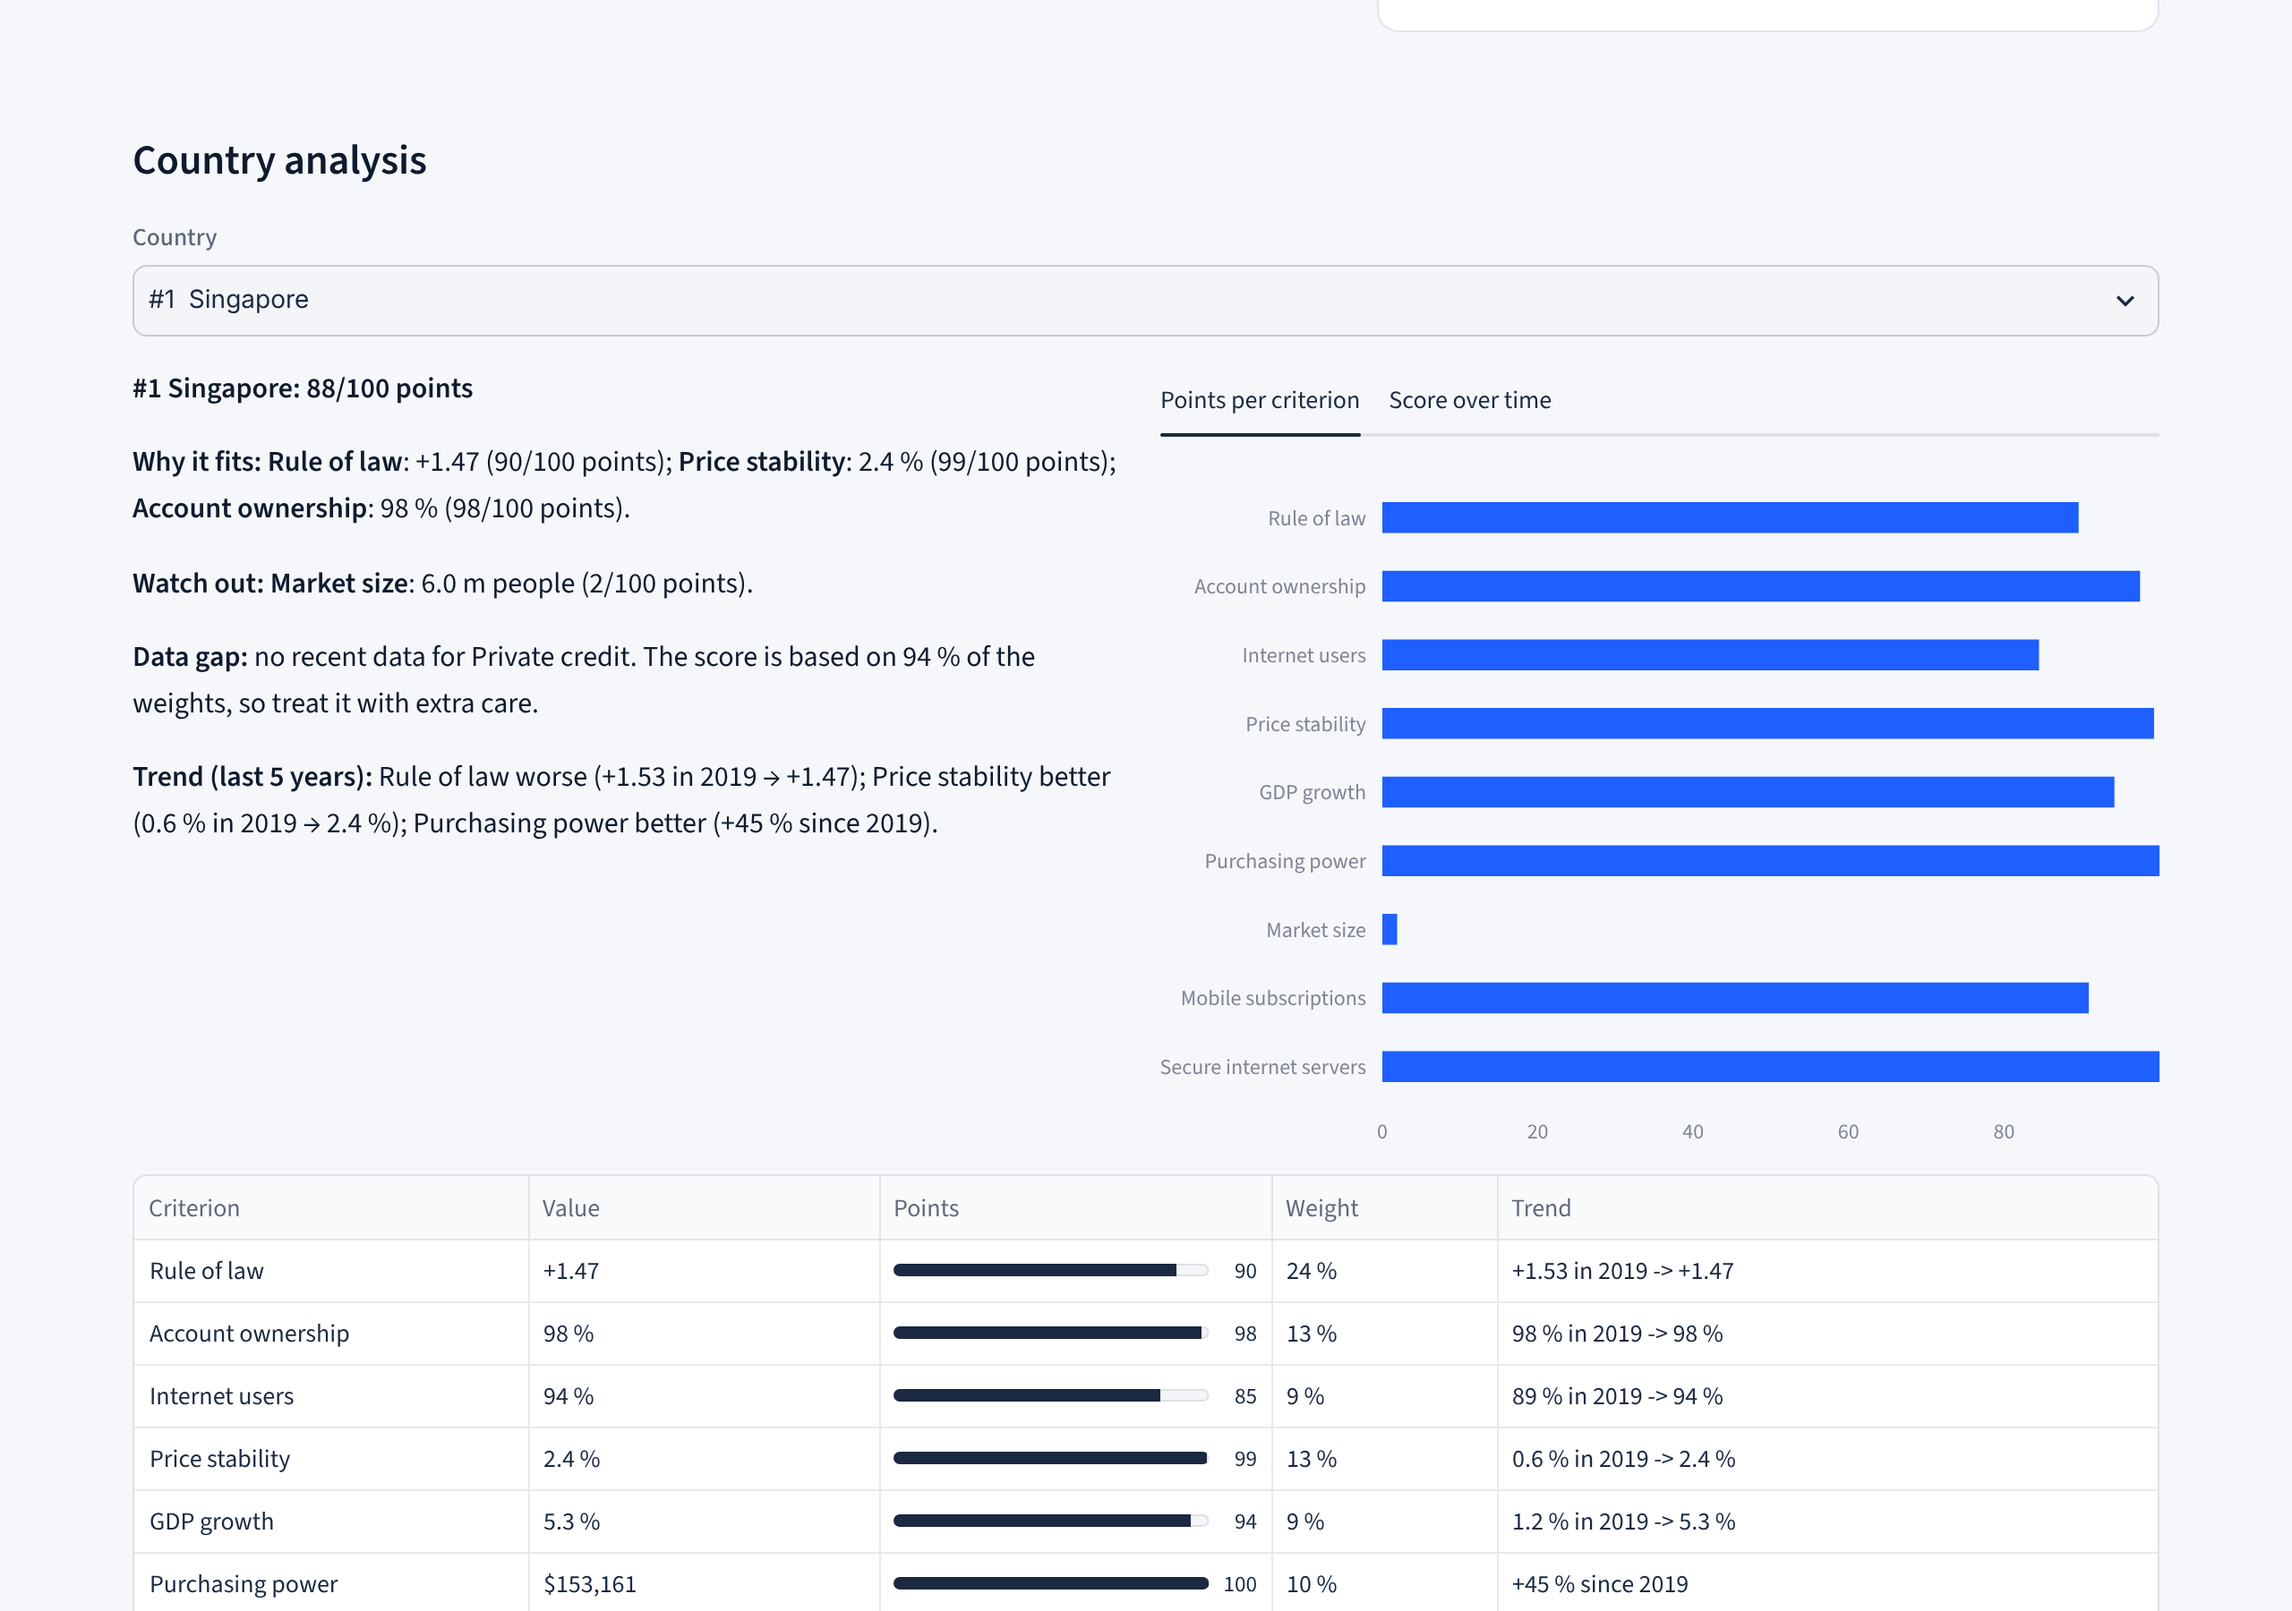
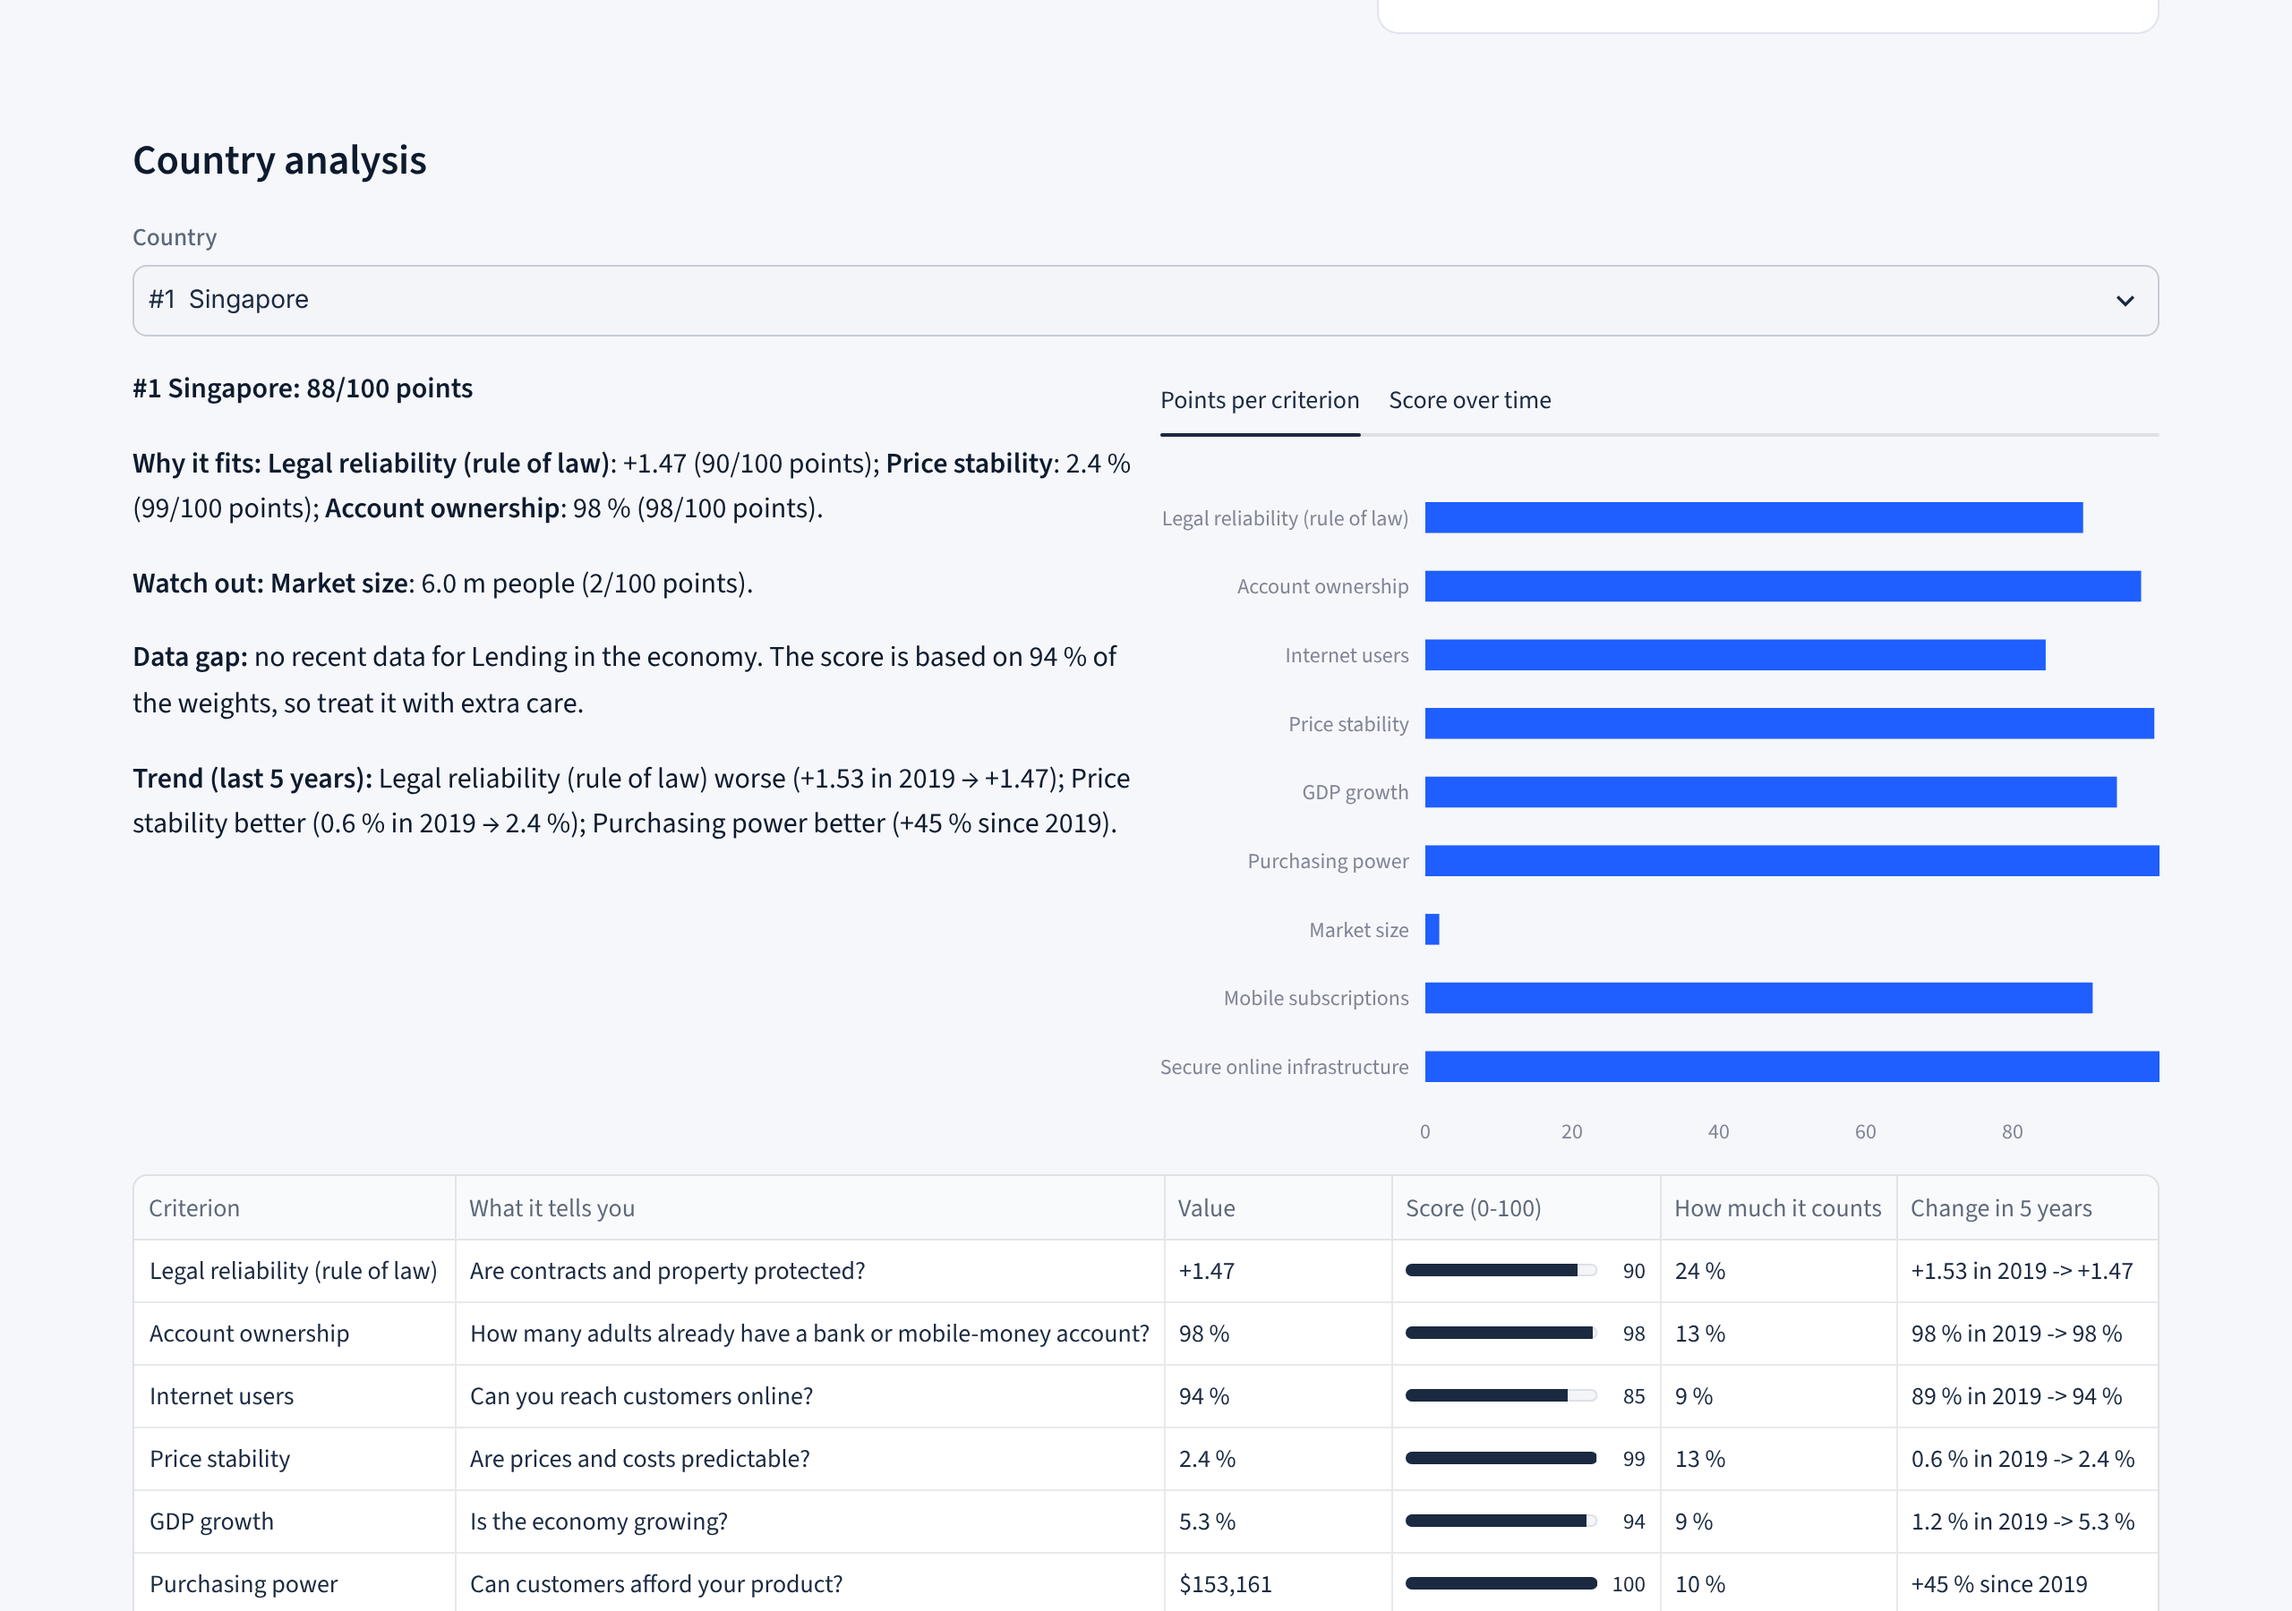
Guided question flow, plain language and more focuses
- Replace the form with seven one-question screens and big answer cards
- 21 focuses across seven industries (new: Education, lending, investing,
  developer tools, AI, EV, marketplace, food delivery and more)
- Plain-language labels, hints and a "what it tells you" column per criterion
- Advanced weight sliders moved to the bottom
- New README screenshots

Claude-Session: https://claude.ai/code/session_01PVR4SvZspivN8kpZSUfhf2

diff --git a/src/ui.py b/src/ui.py
@@ -37,6 +37,29 @@ div[data-testid="stHeading"] {{ margin-top: 1.4rem; }}
 .mec-hint {{ border-left: 3px solid {BLUE}; padding: .15rem 0 .15rem .8rem; color: {INK};
   font-size: .95rem; line-height: 1.5; margin: .6rem 0 .2rem; }}
 
+
+/* guided questions */
+.st-key-wizard {{ max-width: 1000px; }}
+.mec-q {{ font-family: 'Inter Tight', 'Inter', system-ui, sans-serif; font-size: 2rem; font-weight: 700;
+  letter-spacing: -0.03em; line-height: 1.15; margin: .9rem 0 .3rem; color: {INK}; }}
+.mec-qhelp {{ color: {MUTED}; font-size: 1.02rem; margin: 0 0 1.3rem; line-height: 1.5; }}
+.mec-step {{ color: {MUTED}; font-size: .86rem; margin-top: .3rem; }}
+[class*="st-key-tile_"] {{ background: #fff; border: 1px solid {LINE}; border-radius: 12px;
+  padding: 1.05rem 1.15rem 1rem; min-height: 13.4rem; transition: border-color .15s, box-shadow .15s; }}
+[class*="st-key-tile_"]:hover {{ border-color: {BLUE}; box-shadow: 0 2px 14px rgba(31,94,255,.10); }}
+.mec-tile-t {{ font-family: 'Inter Tight', 'Inter', system-ui, sans-serif; font-weight: 600;
+  font-size: 1.12rem; letter-spacing: -0.01em; color: {INK}; margin-bottom: .25rem; }}
+.mec-tile-d {{ color: {MUTED}; font-size: .92rem; line-height: 1.45; margin-bottom: .7rem; }}
+[class*="st-key-tile_"] > div:last-child {{ margin-top: auto; }}
+[class*="st-key-tile_"] .stButton > button {{ border-radius: 8px; font-weight: 600; }}
+.stProgress > div > div > div > div {{ background-color: {BLUE}; }}
+
+/* answers summary on the results page */
+.mec-chips {{ display: flex; flex-wrap: wrap; gap: 8px; margin: .6rem 0 .3rem; }}
+.mec-chip {{ background: #fff; border: 1px solid {LINE}; border-radius: 999px; padding: .28rem .8rem;
+  font-size: .86rem; color: {INK}; }}
+.mec-lead {{ font-size: 1.15rem; line-height: 1.5; color: {INK}; max-width: 46em; }}
+
 /* white panels */
 [class*="st-key-panel"] {{ background: #fff; border: 1px solid {LINE}; border-radius: 12px;
   padding: 1.3rem 1.4rem; }}
@@ -100,10 +123,9 @@ def esc(text) -> str:
 def hero() -> str:
     return (
         '<div class="mec-hero"><div class="brand">Market Entry Compass</div>'
-        "<h1>Choose your first foreign market with evidence.</h1>"
-        "<p>Describe your startup in any industry. The tool ranks 42 countries with open "
-        "World Bank data, shows them on a globe and explains the result. An AI adviser "
-        "can write a detailed recommendation from the same numbers.</p></div>"
+        "<h1>Which country should your startup enter first?</h1>"
+        "<p>Answer a few simple questions. We compare 42 countries with open World Bank data "
+        "and explain the result in plain language. No experience needed.</p></div>"
     )
 
 
@@ -131,3 +153,16 @@ def ranking_table(ranking, selected: str) -> str:
             f"<td class='v'>{r.score:.0f}</td><td class='cov'>{r.coverage * 100:.0f} %</td></tr>"
         )
     return f'<div class="mec-scroll"><table class="mec-rank">{"".join(rows)}</table></div>'
+
+
+def question(title: str, help_text: str = "") -> str:
+    helper = f'<p class="mec-qhelp">{esc(help_text)}</p>' if help_text else ""
+    return f'<div class="mec-q">{esc(title)}</div>{helper}'
+
+
+def tile(title: str, description: str) -> str:
+    return f'<div class="mec-tile-t">{esc(title)}</div><div class="mec-tile-d">{esc(description)}</div>'
+
+
+def chips(items: list[str]) -> str:
+    return '<div class="mec-chips">' + "".join(f'<span class="mec-chip">{esc(i)}</span>' for i in items) + "</div>"

diff --git a/README.md b/README.md
@@ -4,7 +4,7 @@
 
 Most founders pick their first foreign market by gut feeling or by whom they happen to know. Large companies have strategy teams for this decision; early-stage startups do not. Market Entry Compass is a free, transparent screening tool for startups in any industry: you describe your startup, it ranks 42 countries with public data, shows them on a globe you can turn and click, and explains the result. An optional AI advisor (Claude) writes a detailed recommendation, restricted to the numbers the tool provides.
 
-> Status: Version 3 (work in progress). A first screening tool, not a forecast and not legal or financial advice.
+> Status: Version 4 (work in progress). A first screening tool, not a forecast and not legal or financial advice.
 
 ![Startup profile and top recommendations](docs/img/startup-profile.png)
 
@@ -12,15 +12,15 @@ Most founders pick their first foreign market by gut feeling or by whom they hap
 
 ![Country analysis](docs/img/country-analysis.png)
 
-*Screenshots with real World Bank data (fintech, payments focus, home country Germany).*
+*Screenshots with real World Bank data (fintech, payments, home country Germany). Question 2 of 7, the result, and the country analysis.*
 
 ## What it does
 
-- **Startup profile:** industry and focus, customers (B2B / B2C), stage, budget, risk priority, home country, free-text description.
-- **Six industries, ten focuses:** Fintech, SaaS/B2B software, HealthTech, CleanTech/energy, E-commerce/consumer, and "Other industry" for everything else (general criteria plus your own description). A payments fintech and a financial-inclusion fintech want opposite things from "account ownership"; an off-grid energy startup wants LOW electricity access. Each focus has its own weights (see [`src/config.py`](src/config.py)).
-- **Fine-tune:** make any criterion more or less important with a slider and watch the ranking change.
+- **Seven simple questions, no experience needed:** industry, what exactly you do, who pays, budget, what matters most, home country, and an optional free-text description. Big answer cards instead of forms, plain-language explanations everywhere.
+- **Seven industries, 21 focuses:** Fintech, software for companies, health, energy and climate, shopping and consumer, education, and "Something else" for any other industry (you name it, general criteria are used). A payments fintech and a banking-for-the-unbanked startup want opposite things from "account ownership"; an off-grid energy startup wants LOW electricity access. Each focus has its own weights (see [`src/config.py`](src/config.py)).
+- **Advanced (optional):** make any criterion count more or less with a slider and watch the ranking change.
 - **3D globe:** drag to rotate, click a country to open its analysis.
-- **Country analysis:** score, strengths, risks, five-year trends, points per criterion, score history since 2005.
+- **Country analysis:** score, strengths, risks, five-year trends, a plain-language explanation of every criterion, score history since 2005.
 - **Data briefing:** a rule-based written explanation, built only from the numbers.
 - **AI advisor (optional):** Claude reads your profile and the evidence tables and writes a structured recommendation: why #1, why not the others, risks, first 90 days, what the data cannot tell you. It must justify every country with concrete data points and say what to verify. You bring your own Anthropic API key; the app does not store it.
 

diff --git a/docs/methodology.md b/docs/methodology.md
@@ -32,5 +32,5 @@ The advisor receives the startup profile, the weights and an evidence table for 
 - The score does not see competitors, taxes, licences, language, culture, distance or the product itself.
 - World Bank data is published with delay; some indicators lag by one to two years.
 - Weights are a judgement call, informed by what each industry needs. They are visible in the app and in `src/config.py` and can be challenged.
-- Five industries have their own indicators (Fintech, SaaS, HealthTech, CleanTech/energy, E-commerce/consumer); "Other industry" uses only the six core criteria and says so to the AI adviser. 42 countries so far.
+- Six industries have their own indicators (Fintech, software, health, energy, consumer, education); "Something else" uses only the six core criteria and says so to the AI adviser. 42 countries so far.
 - Rich, small countries rank high in most profiles because most indicators reward wealth and institutions. Use the weight sliders and the AI adviser to challenge this.
